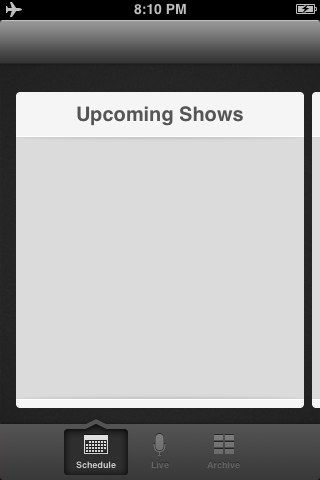
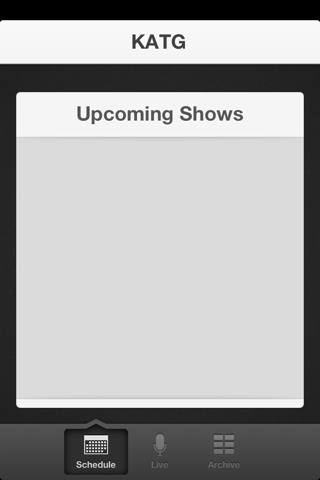
KATG 2.0 Beta 2

diff --git a/KATG/UI/KATGMainViewController.m b/KATG/UI/KATGMainViewController.m
@@ -71,7 +71,6 @@
 @property (weak, nonatomic) IBOutlet KATGSearchBar *searchBar;
 
 @property (nonatomic) KATGShowViewController *currentlyPresentedShowViewController;
-@property (nonatomic) UINavigationController *currentlyPresentedShowNavigationController;
 @property (nonatomic) UIView *modalPresentationDimmerView;
 
 // Layout constraints for modification at runtime
@@ -131,8 +130,6 @@ static void * KATGIsLiveObserverContext = @"IsLiveObserverContext";
 	layout.scrollDirection = UICollectionViewScrollDirectionHorizontal;
 	
 	[self configureTabBar];
-	
-	[self.navigationBar setItems:@[self.navigationItem] animated:NO];
 	[self configureNavBar];
 	
 	self.mainDataSource.mainCollectionView = self.collectionView;
@@ -185,6 +182,7 @@ static void * KATGIsLiveObserverContext = @"IsLiveObserverContext";
 	{
 		return;
 	}
+	[self.navigationBar setItems:@[self.navigationItem] animated:NO];
 	if ([[KATGPlaybackManager sharedManager] currentShow])
 	{
 		// [self.navigationItem setRightBarButtonItem:[[UIBarButtonItem alloc] initWithTitle:@"Now Playing" style:UIBarButtonItemStyleBordered target:self action:@selector(nowPlaying:)] animated:YES];
@@ -272,7 +270,7 @@ static void * KATGIsLiveObserverContext = @"IsLiveObserverContext";
 - (void)didRotateFromInterfaceOrientation:(UIInterfaceOrientation)fromInterfaceOrientation
 {
 	[super didRotateFromInterfaceOrientation:fromInterfaceOrientation];
-	if (self.currentlyPresentedShowNavigationController)
+	if (self.currentlyPresentedShowViewController)
 	{
 		KATGShow *show = self.currentlyPresentedShowViewController.show;
 		NSParameterAssert(show);
@@ -313,9 +311,9 @@ static void * KATGIsLiveObserverContext = @"IsLiveObserverContext";
 {	
 	if (!self.modalPresentationDimmerView)
 	{
-		self.modalPresentationDimmerView = [[UIView alloc] init];
+		self.modalPresentationDimmerView = [UIView new];
 		self.modalPresentationDimmerView.autoresizingMask = UIViewAutoresizingFlexibleHeight | UIViewAutoresizingFlexibleWidth;
-		self.modalPresentationDimmerView.backgroundColor = [UIColor colorWithWhite:0.0f alpha:1.0f];
+		self.modalPresentationDimmerView.backgroundColor = [UIColor blackColor];
 	}
 	self.modalPresentationDimmerView.frame = self.view.bounds;
 	[self.view addSubview:self.modalPresentationDimmerView];
@@ -352,23 +350,18 @@ static void * KATGIsLiveObserverContext = @"IsLiveObserverContext";
 	showViewController.delegate = self;
 	showViewController.showObjectID = [show objectID];
 	self.currentlyPresentedShowViewController = showViewController;
-	UINavigationController *navController = [[UINavigationController alloc] initWithRootViewController:showViewController];
-	navController.view.backgroundColor = [UIColor clearColor];
-	navController.navigationBarHidden = YES;
-	self.currentlyPresentedShowNavigationController = navController;
 	
 	// Prepare the show view controller for presentation
 	showViewController.collapsedFooterHeight = showView.footerHeight;
 	
-	[navController willMoveToParentViewController:self];
-	[self addChildViewController:navController];
-	[self.view addSubview:navController.view];
-	navController.view.frame = self.view.bounds;
-	showViewController.view.frame = navController.view.bounds;
+	[showViewController willMoveToParentViewController:self];
+	[self addChildViewController:showViewController];
+	[self.view addSubview:showViewController.view];
+	showViewController.view.frame = self.view.bounds;
 	
 	// find the starting rect for the show view within the view controller.
 	CGRect showViewRect = showView.bounds;
-	CGPoint center = [navController.view convertPoint:showView.center fromView:showView.superview];
+	CGPoint center = [showViewController.view convertPoint:showView.center fromView:showView.superview];
 	showViewRect.origin.x = center.x - (showViewRect.size.width/2);
 	showViewRect.origin.y = center.y - (showViewRect.size.height/2);
 	showViewController.collapsedShowViewRect = showViewRect;
@@ -383,10 +376,7 @@ static void * KATGIsLiveObserverContext = @"IsLiveObserverContext";
 	// This is dispatched async because there was a nasty animation jump occuring with the meta columns in the footer.
 	// I was unable to track it down, but there is probably a cleaner way to solve this.
 	dispatch_async(dispatch_get_main_queue(), ^{
-		[UIView animateWithDuration:0.5f
-							  delay:0.0f
-							options:0
-						 animations:^{
+		[UIView animateWithDuration:0.5f delay:0.0f options:0 animations:^{
 							 for (UICollectionViewCell *cell in visibleCells)
 							 {
 								 cell.transform = CGAffineTransformMakeScale(0.5f, 0.5f);
@@ -395,7 +385,7 @@ static void * KATGIsLiveObserverContext = @"IsLiveObserverContext";
 						 }
 						 completion:^(BOOL finished) {
 							 self.collectionView.hidden = YES;
-							 [navController didMoveToParentViewController:self];
+							 [showViewController didMoveToParentViewController:self];
 						 }];
 	});
 }
@@ -419,7 +409,7 @@ static void * KATGIsLiveObserverContext = @"IsLiveObserverContext";
 	NSArray *visibleCells = [self.collectionView visibleCells];
 	self.collectionView.hidden = NO;
 	
-	[self.currentlyPresentedShowNavigationController willMoveToParentViewController:nil];
+	[self.currentlyPresentedShowViewController willMoveToParentViewController:nil];
 	[self removeDimmingViewForModalWithDuration:0.5f];
 	
 	[UIView animateWithDuration:0.5f delay:0.0f options:0
@@ -432,11 +422,9 @@ static void * KATGIsLiveObserverContext = @"IsLiveObserverContext";
 					 }
 					 completion:^(BOOL finished) {
 						 self.currentlyPresentedShowViewController.delegate = nil;
-						 [self.currentlyPresentedShowNavigationController.view removeFromSuperview];
-						 [self.currentlyPresentedShowNavigationController didMoveToParentViewController:nil];
-						 [self.currentlyPresentedShowNavigationController setViewControllers:nil];
+						 [self.currentlyPresentedShowViewController.view removeFromSuperview];
+						 [self.currentlyPresentedShowViewController didMoveToParentViewController:nil];
 						 self.currentlyPresentedShowViewController = nil;
-						 self.currentlyPresentedShowNavigationController = nil;
 					 }];
 }
 

diff --git a/KATG/Data/KATGDataStore.m b/KATG/Data/KATGDataStore.m
@@ -466,6 +466,11 @@ NSString *const KATGDataStoreEventsDidChangeNotification = @"KATGDataStoreEvents
 - (void)downloadEvents
 {
 	EventsLog(@"Download Events");
+	NSURL *url = [NSURL URLWithString:kUpcomingURIAddress relativeToURL:self.baseURL];
+	if (![self networkOperationPreflight:url])
+	{
+		return;
+	}
 	id success = ^(ESJSONOperation *op, id JSON) {
 		NSParameterAssert([JSON isKindOfClass:[NSDictionary class]]);
 		NSParameterAssert(([(NSDictionary *)JSON count] > 0));
@@ -474,7 +479,7 @@ NSString *const KATGDataStoreEventsDidChangeNotification = @"KATGDataStoreEvents
 	id failure = ^(ESJSONOperation *op) {
 		[self handleError:op.error];
 	};
-	NSURLRequest *request = [NSURLRequest requestWithURL:[NSURL URLWithString:kUpcomingURIAddress relativeToURL:self.baseURL]];
+	NSURLRequest *request = [NSURLRequest requestWithURL:url];
 	NSParameterAssert(request);
 	ESJSONOperation *op = [ESJSONOperation newJSONOperationWithRequest:request success:success failure:failure];
 	NSParameterAssert(op);

diff --git a/KATG/UI/Custom Views/KATGShowView.m b/KATG/UI/Custom Views/KATGShowView.m
@@ -64,8 +64,8 @@
 
 - (id)initWithFrame:(CGRect)frame
 {
-    self = [super initWithFrame:frame];
-    if (self) 
+	self = [super initWithFrame:frame];
+	if (self) 
 	{
 		_showNumberLabel = [[KATGShowNumberLabel alloc] initWithFrame:CGRectZero];
 		_showNumberLabel.backgroundColor = [UIColor clearColor];
@@ -112,7 +112,7 @@
 		
 		self.accessibilityElements = @[_showNumberLabel, _showTitleLabel, _closeButton, self.contentView, self.footerView];
 	}
-    return self;
+	return self;
 }
 
 - (void)layoutSubviews

diff --git a/KATG/UI/View Controllers/KATGShowViewController.m b/KATG/UI/View Controllers/KATGShowViewController.m
@@ -305,7 +305,6 @@ typedef enum {
 				KATGShowImagesTableViewCell *imagesCell = [tableView dequeueReusableCellWithIdentifier:kKATGShowDetailsSectionCellIdentifierImages forIndexPath:indexPath];
 				imagesCell.images = [self.show.images sortedArrayUsingDescriptors:@[[NSSortDescriptor sortDescriptorWithKey:@"index" ascending:YES]]];
 				imagesCell.delegate = self;
-				imagesCell.backgroundColor = [UIColor purpleColor];
 				cell = imagesCell;
 			}
 			else

diff --git a/KATG/UI/Base Classes/KATGViewController.m b/KATG/UI/Base Classes/KATGViewController.m
@@ -30,7 +30,7 @@
 
 + (UINavigationController *)katg_viewControllerWrappedInNavigationController;
 {
-	UINavigationController *controller = [[self alloc] initWithNibName:nil bundle:nil];
+	UINavigationController *controller = [self new];
 	return [[UINavigationController alloc] initWithRootViewController:controller];
 }
 

diff --git a/KATG/UI/Custom Views/KATGCigaretteSmokeView.m b/KATG/UI/Custom Views/KATGCigaretteSmokeView.m
@@ -130,7 +130,7 @@
 CGFloat randomBetweenF(CGFloat min, CGFloat max)
 {
 	CGFloat difference = max - min;
-	CGFloat result = ((float)(arc4random() % (RAND_MAX + 1)) / RAND_MAX) * difference;
+	CGFloat result = ((float)(arc4random() % (RAND_MAX - 1)) / RAND_MAX) * difference;
 	result += min;
 	return result;
 }

diff --git a/KATG/UI/View Controllers/KATGShowViewController.h b/KATG/UI/View Controllers/KATGShowViewController.h
@@ -32,7 +32,6 @@ typedef enum {
 	KATGShowViewControllerInterfaceStateCollapsed
 } KATGShowViewControllerInterfaceState;
 
-
 @interface KATGShowViewController : KATGViewController
 
 @property (nonatomic, readonly) KATGShow *show;
